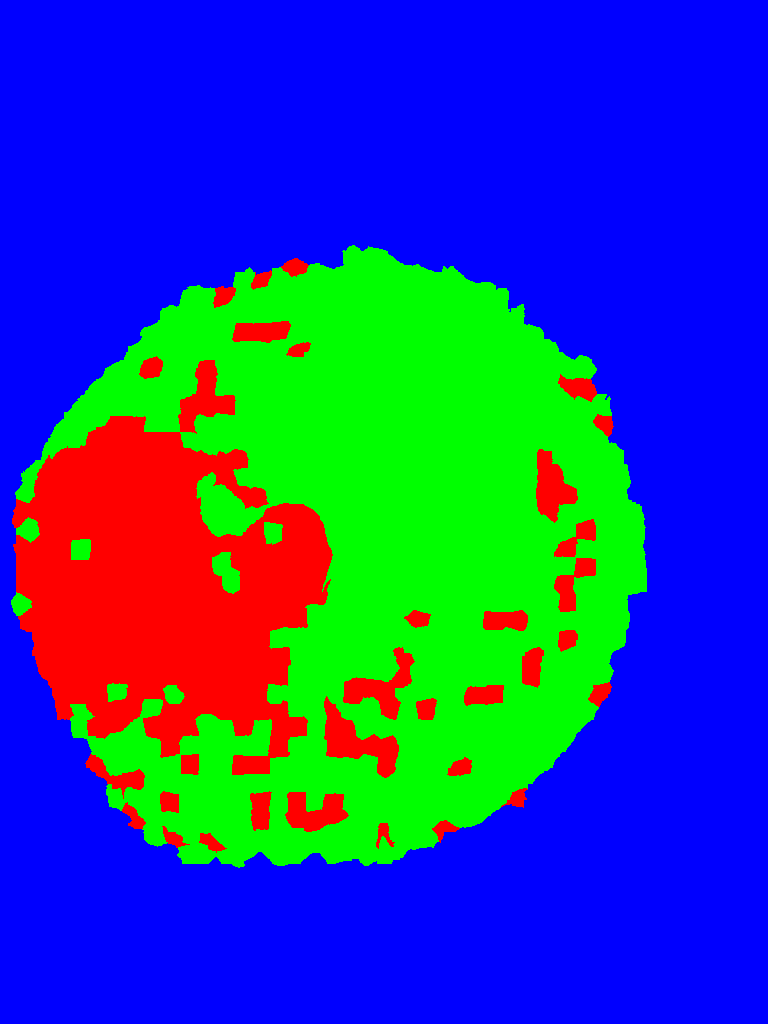
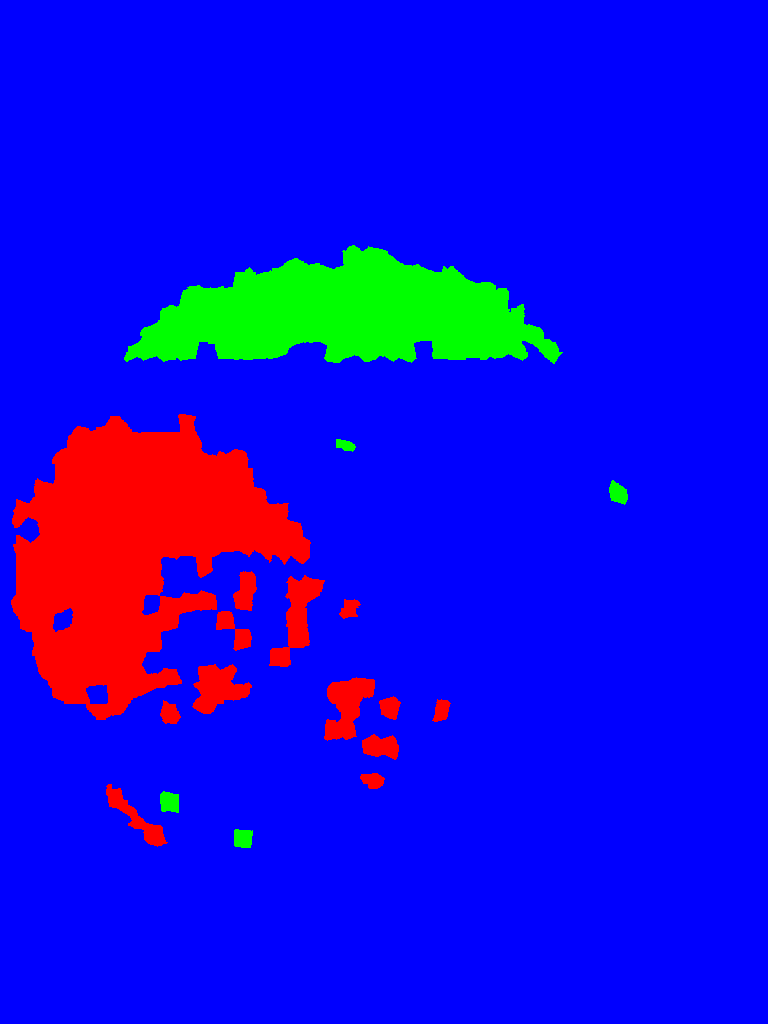
alteracoes no vetor de retorno do sfc-means

diff --git a/select_and_classify.py b/select_and_classify.py
@@ -55,6 +55,10 @@ def select_random_seeds(percentage=0.3):
     #ht_cls = [(1, i) for i in ht] #healthy features with classes
     #ds_cls = [(2, i) for i in ds] #disease features with classes
 
+    # preparando para cortar o resultado do vetor retornado do SFC-means
+    tamanho_ht = len(ht)
+    tamanh_ds = len(ds)
+
     minimun = min(len(ht), len(ds))
     absolute_limiar = round(minimun * percentage)
 
@@ -75,7 +79,32 @@ def select_random_seeds(percentage=0.3):
     total_grouping = 0
 
     result = SFc_means(attr_vector, k, seeds, seeds_classes, centroids, threshold, z, total_grouping)
-    return result
+
+    # cortando a parte saudável
+    ht_corte = result[0:tamanho_ht]
+    ds_corte = result[tamanho_ht:]
+
+    marks_file = open('saved_data/marked_areas.npz', 'rb')
+    marks_data = np.load(marks_file)
+    healthy_mark = marks_data['healthy']
+    disease_mark = marks_data['disease']
+    
+    # cria imagem do treinamento resultante
+    full_sp = np.concatenate((ht_sp, ds_sp))
+    create_result_image(segments, list(zip(full_sp, result)), 'tcc_result')
+
+    result_healthy_mask = mask_result_image(segments, list(zip(ht_sp, ht_corte)), 1)
+    result_disease_mask = mask_result_image(segments, list(zip(ds_sp, ds_corte)), 2)
+    pos_processed = image_pos_processing(result_disease_mask)
+    #imsave('saved_data/result/pos_processed_mask.png', img_as_ubyte(pos_processed))
+
+    tp, tn, fp, fn = calculate_confusion_matrix(disease_mark, pos_processed, healthy_mark, result_healthy_mask)
+    dice = calculate_dice(disease_mark, pos_processed)
+    accuracy = (tp + tn) / (tp + fp + tn + fp)
+    sensibility = (tp) / (tp + fn)
+    specificity = (tn) / (tn + fp)
+
+    return accuracy, sensibility, specificity, dice
     #full_sp = np.concatenate((ht_sp, ds_sp))
     #create_result_image(segments, list(zip(full_sp, result)))
 
@@ -132,12 +161,13 @@ def classify(percentage=0.25):
     #create_result_image(segments, list(zip(full_sp, result_healthy)), 'train_image')
     tcc_train_image(segments, list(zip(full_sp, result_healthy)), 'train_image')
     """ 
-    """sfcmeans = select_random_seeds(percentage) # usando SFc-means
+    # sfcmeans = select_random_seeds(percentage) # usando SFc-means
 
-    print(sfcmeans)
-    exit()"""
+    # print("teste com sfcmeans")
+    # print(sfcmeans)
 
     clf = RandomForestClassifier(n_estimators=30) # usando Random Forest
+    
     clf.fit(train_set_data, train_ground_truth)
 
     result_healthy_test = []
@@ -162,6 +192,11 @@ def classify(percentage=0.25):
     for i in disease_train_set_index:
         result_disease[i] = 2
 
+    # testes
+    # print("matriz result_healthy")
+    # print(result_healthy)
+    # print("matriz result_disease")
+    # print(result_disease)
 
     marks_file = open('saved_data/marked_areas.npz', 'rb')
     marks_data = np.load(marks_file)
@@ -311,4 +346,5 @@ def image_pos_processing(result_image):
     return output
 
 if __name__ == '__main__':
-    classify()
+    classify() # o original do trabalho do pablo era classify().
+    # select_random_seeds() # Esse trabalho realiza a classificacao usando o sfc-means

diff --git a/runTests.py b/runTests.py
@@ -19,7 +19,7 @@
 # imports dos arquivos necessários
 from main import vsf # responsável pela separação dos superpixels
 from features_extraction import ftet # responsável por extrair as caracteristicas de cada superpixel usadas no modelo
-from select_and_classify import classify # responsável pela classificação do modelo criado
+from select_and_classify import classify, select_random_seeds # responsável pela classificação do modelo criado
 from statistics import mean, pvariance
 import os, csv, time
 import numpy as np
@@ -126,8 +126,9 @@ for image in dataset:
 
                 # Terceira etapa do algoritmo:
                 # Usa as características extraídas na etapa anterior para classificar e gerar as métricas para cada imagem
-                # Disponível no arquivo select_and_classify.py (alteração por Filipe A.S: classificar usando SFc-means).
-                acc, sen, spe, dice = classify(percent)
+                # Disponível no arquivo select_and_classify.py
+                # acc, sen, spe, dice = classify(percent) # classificação por Random Forest
+                acc, sen, spe, dice = select_random_seeds(percent) # classificação por sfc-means
 
                 # Coloca as métricas na estrutura de dados
                 metrics_media[0].append(acc)
